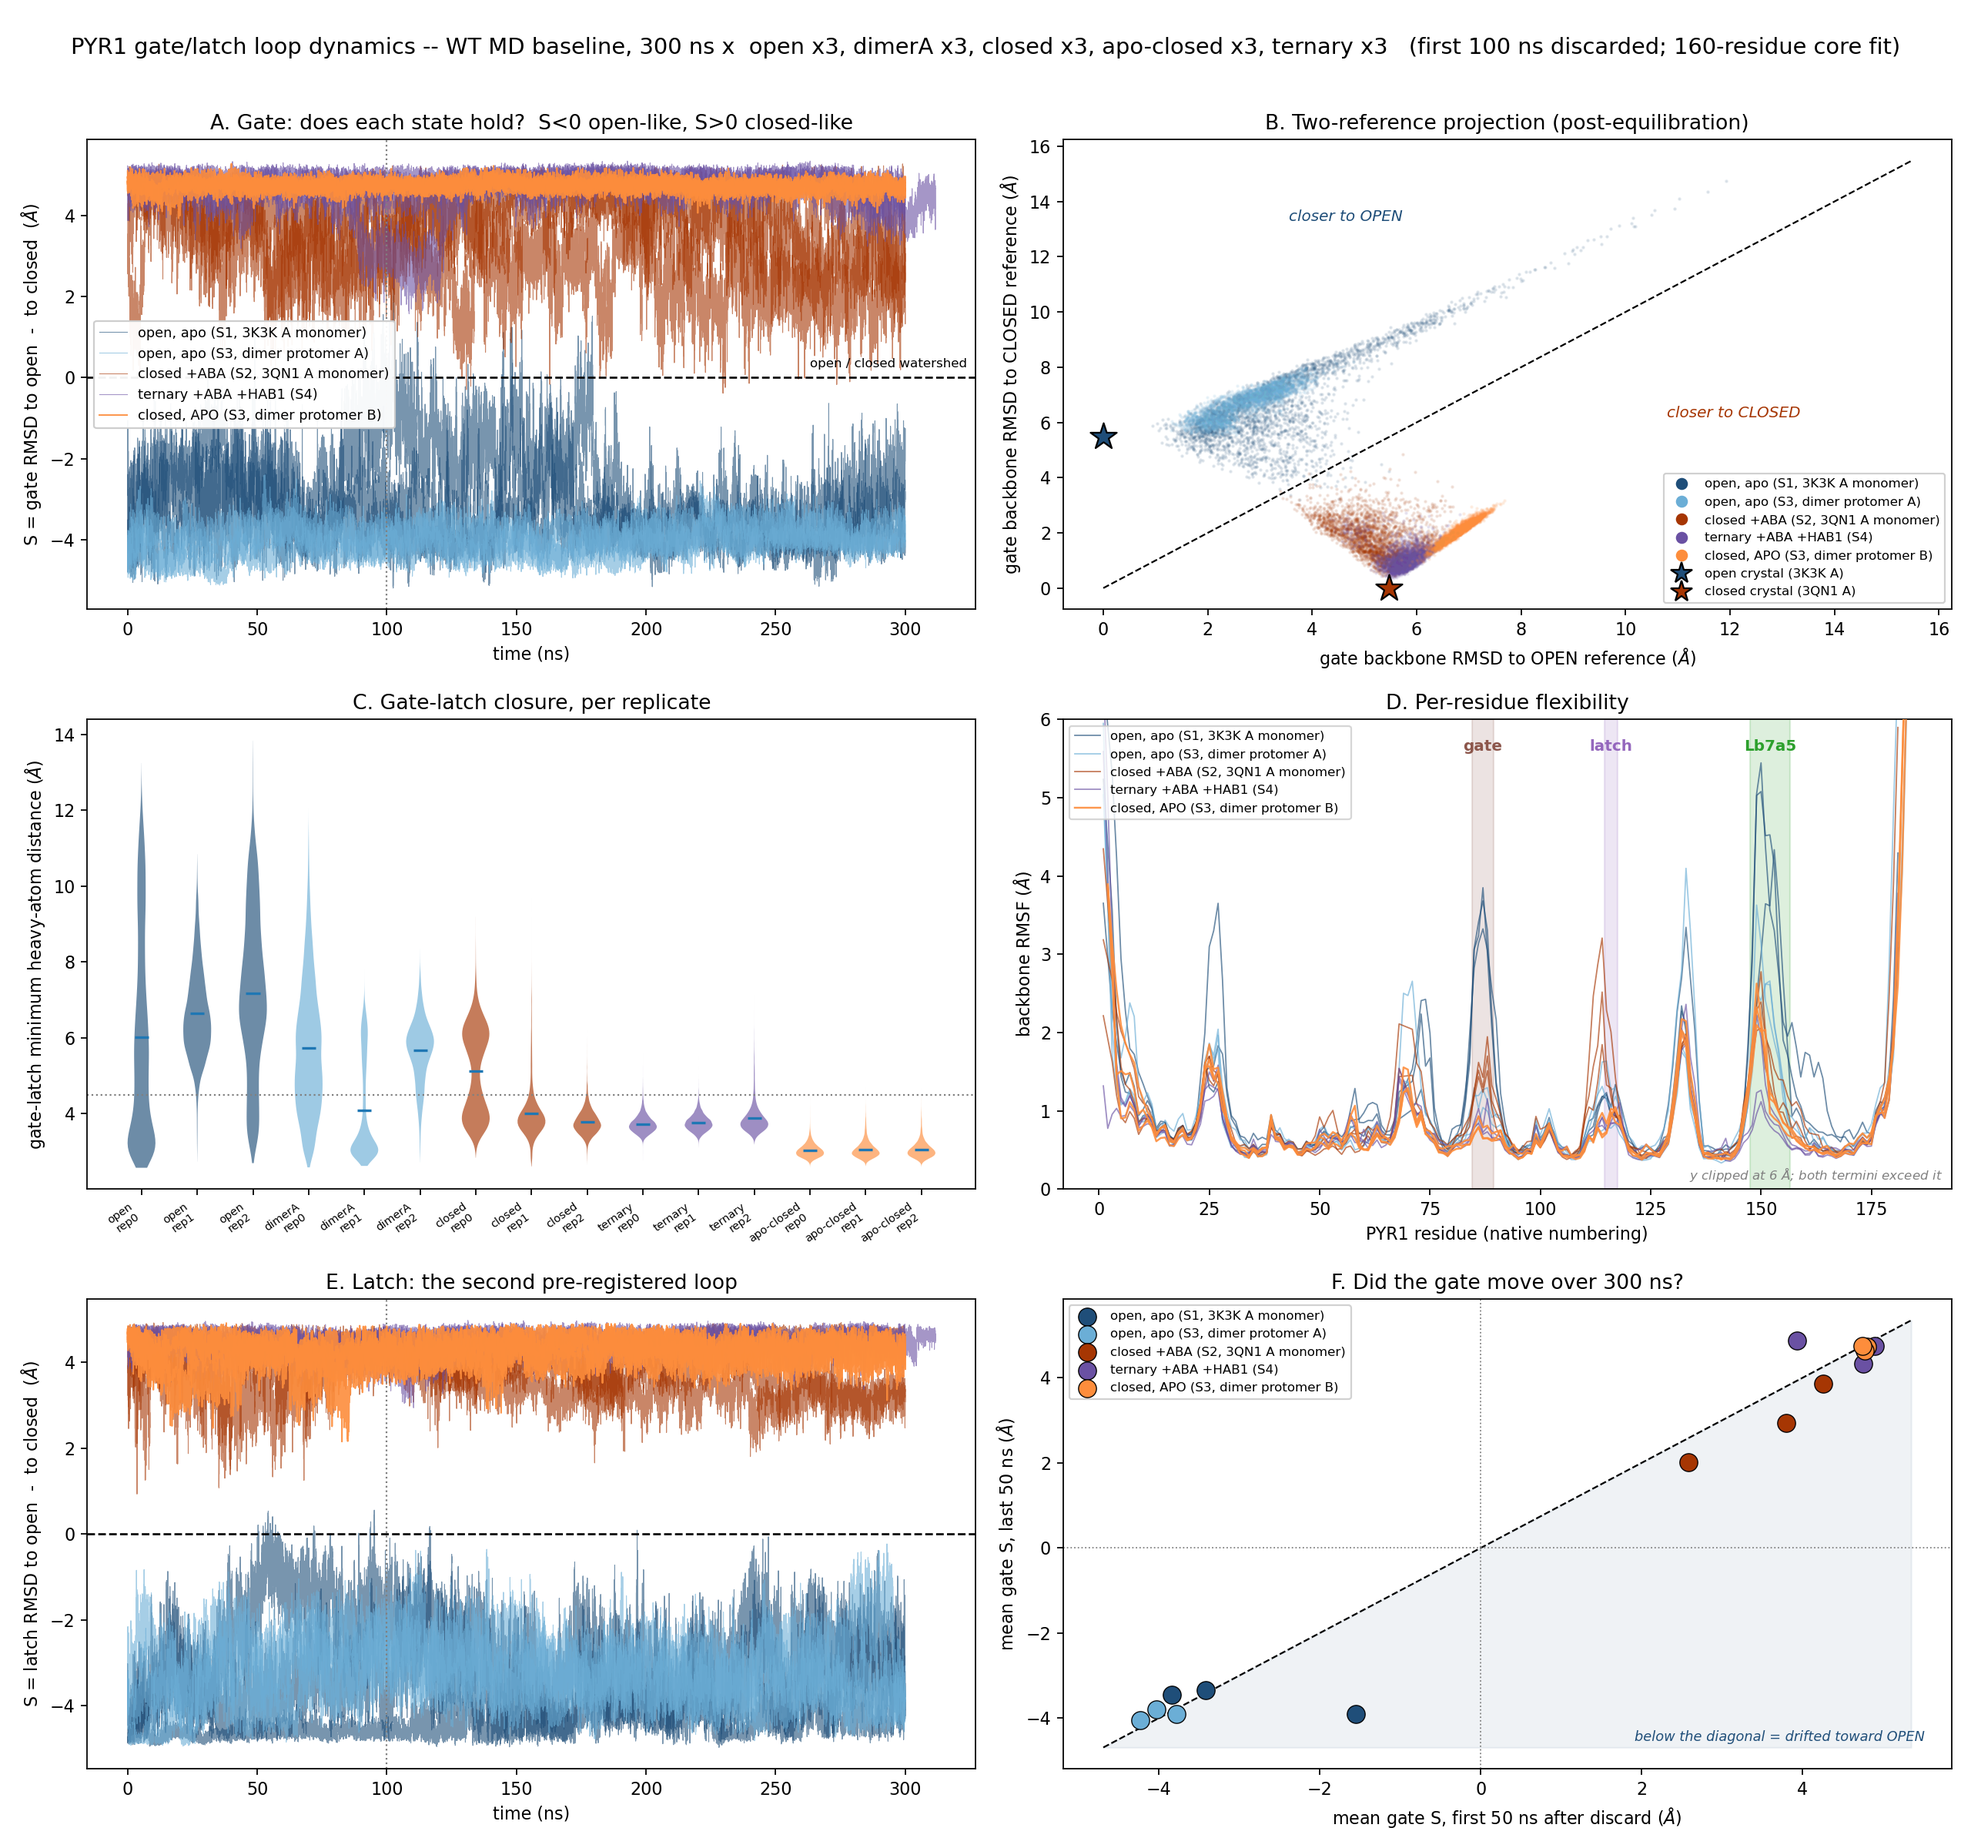
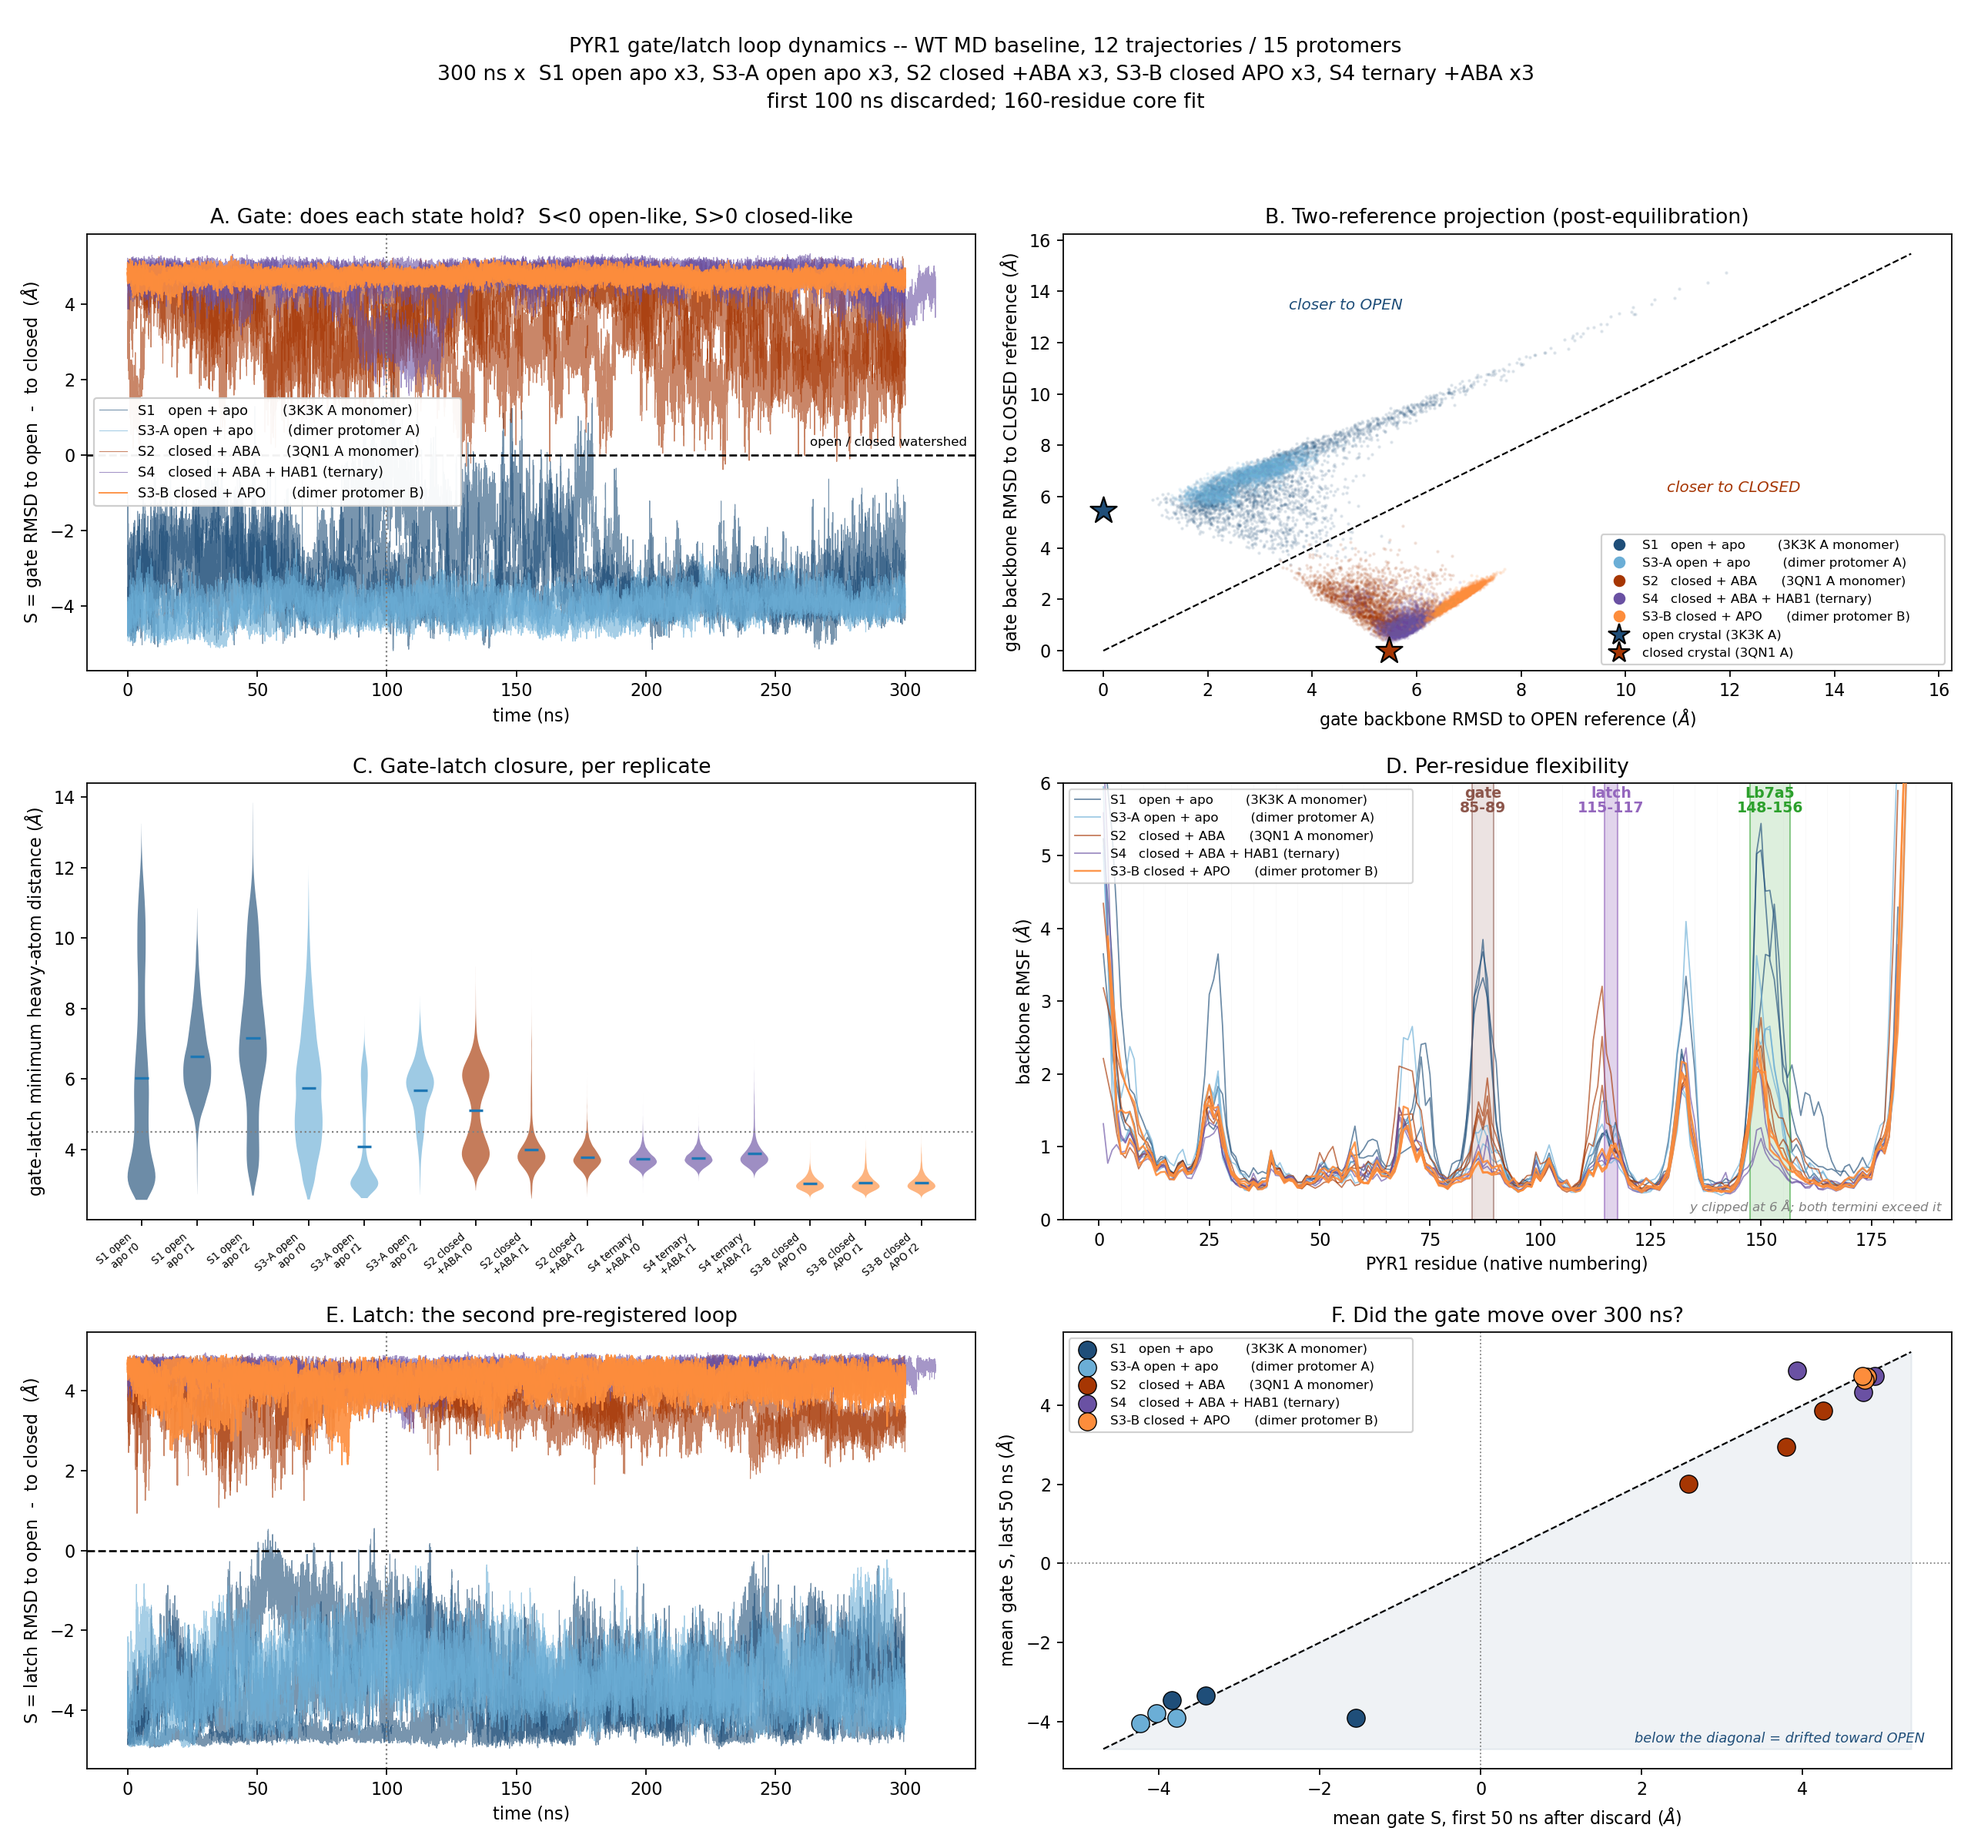
Verify loop-dynamics indexing and assert unit labels against the data
Asked whether the per-run indexing and the latch residues are right, since the
latch band in panel D does not sit on the nearest RMSF peak.

Indexing verified three ways: cpptraj writes topology residue numbers so protomer
B's rows run 184-366, every row maps to a native residue, and each unit's claimed
sequential index returns SER-GLY-LEU-PRO-ALA at the gate and HIS-ARG-LEU at the
latch from the prmtop's own RESIDUE_LABEL block. The apparent misalignment is
real: the local maximum is at native 114, one residue before the latch, and the
larger peak nearby is an unannotated loop at 131-134.

- 59 now asserts every unit's mean gate S falls on the side its NAME claims, and
  that the two S3 protomers sit on opposite sides -- so a swapped chain letter
  stops the run instead of producing a mislabelled figure.
- 60 labels each loop band with its residue range, tints the three-residue latch
  more heavily, adds a 5-residue minor grid, and names conformation and occupancy
  separately so 'closed + APO' cannot be read as a typo for 'closed + ABA'.

S1 and S3 protomer A are both open+apo on purpose: the same crystal chain as a
monomer and inside the dimer. That pair is what measures the 2.9x dimerisation
effect.

diff --git a/scripts/60_loop_dynamics_figure.py b/scripts/60_loop_dynamics_figure.py
@@ -56,12 +56,19 @@ PSF = SUM["ps_per_frame"]
 DF = int(DISCARD * 1000 / PSF)
 
 # unit -> (legend label, colour, short tick label)
+# Two units are legitimately "open + apo": S1 and S3 protomer A are the SAME
+# crystal chain (3K3K A), once as an isolated monomer and once inside the dimer.
+# They are different runs of the same state, and the 2.9x difference in gate RMSF
+# between them is the measured cost of that difference, not a labelling error.
+# Labels therefore lead with the system id and spell out conformation AND
+# occupancy separately, so "closed + apo" cannot be misread as a typo for
+# "closed + ABA" -- it is the point of the analysis.
 SYSTEMS = {
-    "S1_apo_open":      ("open, apo (S1, 3K3K A monomer)",      "#1F4E79", "open"),
-    "S3_dimer_openA":   ("open, apo (S3, dimer protomer A)",    "#6BAED6", "dimerA"),
-    "S2_holo_closed":   ("closed +ABA (S2, 3QN1 A monomer)",    "#A63603", "closed"),
-    "S3_dimer_closedB": ("closed, APO (S3, dimer protomer B)",  "#FD8D3C", "apo-closed"),
-    "S4_ternary":       ("ternary +ABA +HAB1 (S4)",             "#6A51A3", "ternary"),
+    "S1_apo_open":      ("S1   open + apo        (3K3K A monomer)          ", "#1F4E79", "S1 open\napo"),
+    "S3_dimer_openA":   ("S3-A open + apo        (dimer protomer A)",          "#6BAED6", "S3-A open\napo"),
+    "S2_holo_closed":   ("S2   closed + ABA      (3QN1 A monomer)",            "#A63603", "S2 closed\n+ABA"),
+    "S3_dimer_closedB": ("S3-B closed + APO      (dimer protomer B)",          "#FD8D3C", "S3-B closed\nAPO"),
+    "S4_ternary":       ("S4   closed + ABA + HAB1 (ternary)",                 "#6A51A3", "S4 ternary\n+ABA"),
 }
 # drawing order puts the apo-closed protomer last so it is never buried
 ORDER = ["S1_apo_open", "S3_dimer_openA", "S2_holo_closed", "S4_ternary",
@@ -157,7 +164,7 @@ for s in ORDER:
         if d is None:
             continue
         pos.append(d[DF:])
-        labels.append(f"{short}\nrep{r}")
+        labels.append(f"{short} r{r}")
         colors.append(col)
 if pos:
     bp = axC.violinplot(pos, showmeans=True, showextrema=False)
@@ -165,7 +172,7 @@ if pos:
         body.set_facecolor(c)
         body.set_alpha(0.65)
     axC.set_xticks(range(1, len(labels) + 1))
-    axC.set_xticklabels(labels, fontsize=6.5, rotation=35, ha="right")
+    axC.set_xticklabels(labels, fontsize=6, rotation=40, ha="right")
 axC.axhline(4.5, color="grey", ls=":", lw=1)
 axC.set_ylabel("gate-latch minimum heavy-atom distance ($\\AA$)")
 axC.set_title("C. Gate-latch closure, per replicate")
@@ -188,10 +195,21 @@ for s in ORDER:
 # and letting them set the y-axis squashes the loops this panel exists to compare.
 # Clipped rather than trimmed, and said so, so nothing is silently hidden.
 axD.set_ylim(0, 6)
+# The bands are labelled with their residue RANGES, and the latch is only three
+# residues wide, so it gets a heavier tint and edge lines -- otherwise it reads as
+# a smear next to a much larger unannotated peak at 131-134 and looks misaligned.
+# It is not: the local maximum here sits at native 114, one residue BEFORE the
+# latch, and the latch lies on that peak's shoulder.
 for lname, (nats, lcol) in LOOPS.items():
-    axD.axvspan(min(nats) - 0.5, max(nats) + 0.5, color=lcol, alpha=0.16)
-    axD.text(np.mean(nats), 5.6, lname, ha="center",
-             fontsize=9, color=lcol, fontweight="bold")
+    lo, hi = min(nats) - 0.5, max(nats) + 0.5
+    axD.axvspan(lo, hi, color=lcol, alpha=0.28 if len(nats) < 5 else 0.16)
+    for x in (lo, hi):
+        axD.axvline(x, color=lcol, lw=0.7, alpha=0.55)
+    axD.text(np.mean(nats), 5.6, f"{lname}\n{min(nats)}-{max(nats)}", ha="center",
+             fontsize=8.5, color=lcol, fontweight="bold", linespacing=0.95)
+axD.set_xticks(np.arange(0, 200, 25))
+axD.set_xticks(np.arange(0, 190, 5), minor=True)
+axD.grid(axis="x", which="minor", lw=0.25, alpha=0.12)
 axD.text(0.99, 0.02, "y clipped at 6 $\\AA$; both termini exceed it",
          transform=axD.transAxes, ha="right", fontsize=7.5, style="italic",
          color="grey")
@@ -234,17 +252,18 @@ axF.set_title("F. Did the gate move over 300 ns?")
 axF.legend(fontsize=7.5, loc="upper left", framealpha=0.9)
 
 n = SUM.get("n_replicates", {})
-counts = ", ".join(f"{SYSTEMS[u][2]} x{n[st]}"
+counts = ", ".join(f"{SYSTEMS[u][2].replace(chr(10), ' ')} x{n[st]}"
                    for u, st in (("S1_apo_open", "open"),
                                  ("S3_dimer_openA", "dimer_openA"),
                                  ("S2_holo_closed", "closed"),
                                  ("S3_dimer_closedB", "dimer_closedB"),
                                  ("S4_ternary", "ternary")) if n.get(st))
 fig.suptitle(
-    f"PYR1 gate/latch loop dynamics -- WT MD baseline, 300 ns x  {counts}   "
-    f"(first {DISCARD} ns discarded; {SUM.get('core_residues', '?')}-residue core fit)",
-    fontsize=13)
-fig.tight_layout(rect=[0, 0, 1, 0.97])
+    "PYR1 gate/latch loop dynamics -- WT MD baseline, 12 trajectories / 15 protomers\n"
+    f"300 ns x  {counts}\n"
+    f"first {DISCARD} ns discarded; {SUM.get('core_residues', '?')}-residue core fit",
+    fontsize=12, linespacing=1.5)
+fig.tight_layout(rect=[0, 0, 1, 0.945])
 out = os.path.join(FIG, "loop_dynamics.png")
 fig.savefig(out, dpi=160)
 print(f"wrote {out}")

diff --git a/scripts/59_loop_dynamics_aggregate.py b/scripts/59_loop_dynamics_aggregate.py
@@ -213,6 +213,36 @@ print(f"\n  -> discarding the first {DISCARD} ns of every replicate")
 print(f"     (chosen from CORE backbone RMSD only, never from the loop "
       f"observables under test)")
 
+# ---- do the NAMES match the MEASUREMENTS? ----
+# S3's two protomers are told apart only by a chain letter, and the label
+# "S3_dimer_closedB" is an assertion about which one is closed. A label that
+# encodes a claim will eventually be trusted instead of the claim, so the claim is
+# checked here against the trajectory: every unit whose name says open must sit on
+# the open side of the watershed, and vice versa. A swapped chain letter anywhere
+# upstream stops the script instead of producing a mislabelled figure.
+print("\n  Name-vs-measurement check (gate state coordinate S, post-discard):")
+EXPECT_SIDE = {"open": -1, "dimer_openA": -1,
+               "closed": +1, "dimer_closedB": +1, "ternary": +1}
+for (sname, r), d in sorted(data.items()):
+    S = (d["gate_open"][DF:] - d["gate_closed"][DF:]).mean()
+    want = EXPECT_SIDE[SYSTEMS[sname]]
+    side = "open-like" if S < 0 else "closed-like"
+    assert np.sign(S) == want, (
+        f"{sname} rep{r}: name says {'open' if want < 0 else 'closed'} but mean "
+        f"gate S = {S:+.2f} ({side}). The chain letter or the state table is wrong.")
+    print(f"    {sname:<18} rep{r}  S = {S:+5.2f}  {side}  -- agrees with its name")
+# and the two S3 protomers must be on OPPOSITE sides, which is the whole reason
+# S3 is analysed as two units rather than one
+sA = np.mean([(data[("S3_dimer_openA", r)]["gate_open"][DF:]
+               - data[("S3_dimer_openA", r)]["gate_closed"][DF:]).mean()
+              for r in REPS if ("S3_dimer_openA", r) in data])
+sB = np.mean([(data[("S3_dimer_closedB", r)]["gate_open"][DF:]
+               - data[("S3_dimer_closedB", r)]["gate_closed"][DF:]).mean()
+              for r in REPS if ("S3_dimer_closedB", r) in data])
+assert sA < 0 < sB, "the S3 protomers are not on opposite sides of the watershed"
+print(f"    -> S3 is a MIXED dimer in the trajectory too, not just the crystal: "
+      f"protomer A {sA:+.2f}, protomer B {sB:+.2f}")
+
 print("\n  ABA validity control (S2 only; heavy-atom RMSD vs frame 1, protein-fit):")
 aba_ok = True
 for (s, r), d in sorted(data.items()):

diff --git a/README.md b/README.md
@@ -4168,3 +4168,46 @@ observables cannot be reselected once their answers are known:
 Panels A/B/C/D are §24's, extended to five states; **E** adds the latch state
 coordinate in its own panel; **F** plots mean gate S over the first 50 ns after
 the discard against the last 50 ns, so "did anything move" is one glance.
+
+### 29f. Indexing audit, and why two runs are both "open + apo"
+
+Asked for directly (2026-08-18), because the latch band in panel D looks
+misaligned with the nearest RMSF peak.
+
+**The indexing is correct in all five units, verified three ways.** cpptraj writes
+the *topology* residue number in `rmsf_bb_byres.dat`, so protomer B's rows really
+do run 184–366; every row maps to a native residue with none left over; and taking
+each unit's claimed sequential index straight into the **prmtop's own
+`RESIDUE_LABEL`** returns SER-GLY-LEU-PRO-ALA at the gate and HIS-ARG-LEU at the
+latch in every case:
+
+| unit | gate native→seq | latch native→seq | latch labels |
+|---|---|---|---|
+| S1 | 85→82 | 115→112 | HIS ARG LEU |
+| S2 | 85→82 | 115→112 | HIS ARG LEU |
+| S3 protomer A | 85→85 | 115→115 | HIS ARG LEU |
+| S3 protomer B | 85→**267** | 115→**297** | HIS ARG LEU |
+| S4 | 85→83 | 115→113 | HIS ARG LEU |
+
+**The apparent misalignment is real and is not an offset.** The local maximum in
+that region sits at native **114**, one residue *before* the latch, and the latch
+lies on its shoulder — in S2 the profile reads 2.02 (113) → **2.52 (114)** → 1.71
+(115) → 1.49 (116) → 1.10 (117). The much larger peak that draws the eye is at
+**131–134**, a different loop that is not one of the three pre-registered ones and
+carries no shading. Panel D now labels each band with its residue range, tints the
+three-residue latch more heavily, and carries a 5-residue minor grid so alignment
+can be read off the axis rather than trusted.
+
+**Two units are legitimately "open + apo".** S1 and S3 protomer A are the same
+crystal chain — 3K3K chain A — once as an isolated monomer and once inside the
+dimer. They are two runs of one state, and the 2.9× difference in gate RMSF
+between them (3.05 vs 1.07 Å) is the measured cost of dimerisation, not a
+duplicated label. The closed states are the ones that differ in occupancy: **S2 is
+closed + ABA, S3 protomer B is closed + APO**, and that contrast is the whole
+point of §29b. Legend labels now name conformation and occupancy separately.
+
+**The labels are now asserted, not trusted** (§28h, `feedback` on names that carry
+claims). Script 59 checks every unit's mean gate S against the side its name
+claims and stops on disagreement, and separately asserts the two S3 protomers sit
+on *opposite* sides. They do — protomer A −3.98, protomer B +4.74 — so S3 is a
+mixed dimer in the trajectory, not only in the crystal.
